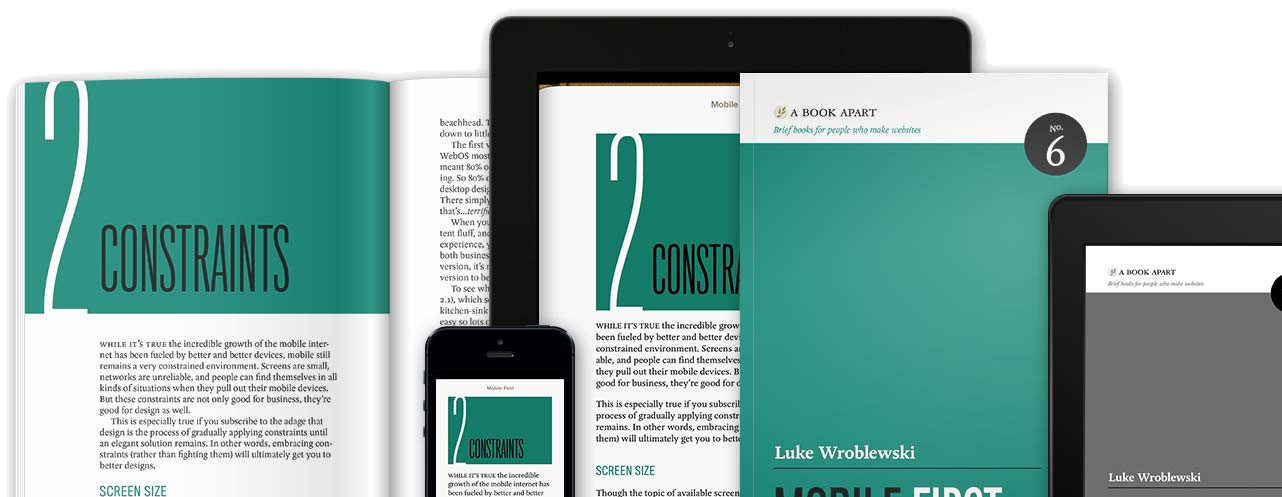
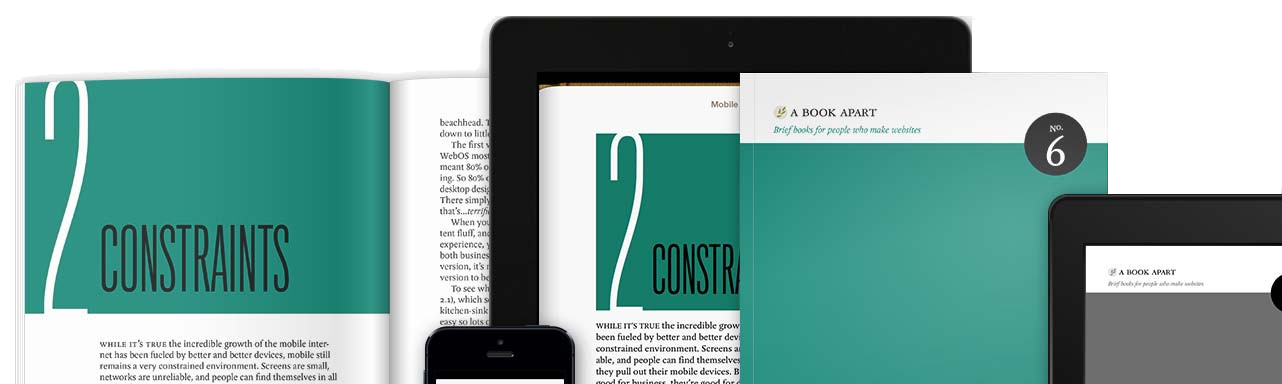
almost done

diff --git a/public/stylesheets/style.css b/public/stylesheets/style.css
@@ -63,7 +63,7 @@ table{border-collapse:collapse;border-spacing:0}
 .icon-safari{color:#77d8ef;}
 .icon-safari:before{content:"\e002"}
 .icon-mobile:before{content:"\e000"}
-img[title="Responsive Web"]{bottom:-6vmin;margin:auto;position:absolute;left:-2vmin;width:100%}
+img[title="Responsive Web"]{bottom:-1vmin;margin:auto;position:absolute;left:-3vmin;width:100%}
 img[title="Mobile First"]{bottom:0;margin:auto;position:absolute;right:0;width:100%}
 img.full{position:absolute;top:0;bottom:0;left:0;right:0;width:100%;height:100%}
 html{font-size:62.5%}
@@ -105,11 +105,11 @@ ui-slide.title h2 span{display:block;font-size:1.4em}
 ui-slide.responsive-design p,ui-slide.ress p{color:#999;font-size:1.4em}
 ui-slide.responsive-design b,ui-slide.ress b{color:#323a45;font-family:'Open Sans'}
 ui-slide.responsive-now .orange{color:#f27935}
-ui-slide.responsive-now .flexible{opacity:1;-ms-filter:none;filter:none;border-bottom:0;}
+ui-slide.responsive-now .flexible{opacity:1 !important;-ms-filter:none;filter:none;border-bottom:0;}
 ui-slide.responsive-now .flexible .hidden{opacity:0;filter:alpha(opacity=0);-ms-filter:"progid:DXImageTransform.Microsoft.Alpha(Opacity=0)"}
 ui-slide.responsive-now .flexible.ui-slide-item-current,ui-slide.responsive-now .flexible.ui-slide-item-done{border-bottom:1px solid #e6e6e6;}
-ui-slide.responsive-now .flexible.ui-slide-item-current .item,ui-slide.responsive-now .flexible.ui-slide-item-done .item,ui-slide.responsive-now .flexible.ui-slide-item-current .item2,ui-slide.responsive-now .flexible.ui-slide-item-done .item2{opacity:0;filter:alpha(opacity=0);-ms-filter:"progid:DXImageTransform.Microsoft.Alpha(Opacity=0)";display:none}
-ui-slide.responsive-now .flexible.ui-slide-item-current .hidden,ui-slide.responsive-now .flexible.ui-slide-item-done .hidden{opacity:1;-ms-filter:none;filter:none}
+ui-slide.responsive-now .flexible.ui-slide-item-current .item,ui-slide.responsive-now .flexible.ui-slide-item-done .item,ui-slide.responsive-now .flexible.ui-slide-item-current .item2,ui-slide.responsive-now .flexible.ui-slide-item-done .item2{opacity:0 !important;filter:alpha(opacity=0) !important;-ms-filter:"progid:DXImageTransform.Microsoft.Alpha(Opacity=0)" !important;display:none}
+ui-slide.responsive-now .flexible.ui-slide-item-current .hidden,ui-slide.responsive-now .flexible.ui-slide-item-done .hidden{opacity:1 !important;-ms-filter:none;filter:none}
 ui-slide.responsive-easier span{color:#f27935}
 ui-slide.ress h3 span{color:#1fbba6}
 ui-slide.ress-similiar-requests h4,ui-slide.ress-sprinkle-magic h4,ui-slide.ress-found-profile h4,ui-slide.ress-new-profile h4,ui-slide.ress-unique-devices h4,ui-slide.ress-request-fullfilled h4,ui-slide.ress-send-sample h4{color:#fff;background:#323a45;font-weight:normal;position:absolute;padding:1em 2em 1em 4em;top:0;left:0;opacity:.9;filter:alpha(opacity=90);-ms-filter:"progid:DXImageTransform.Microsoft.Alpha(Opacity=90)";letter-spacing:0;word-spacing:.2em;}
